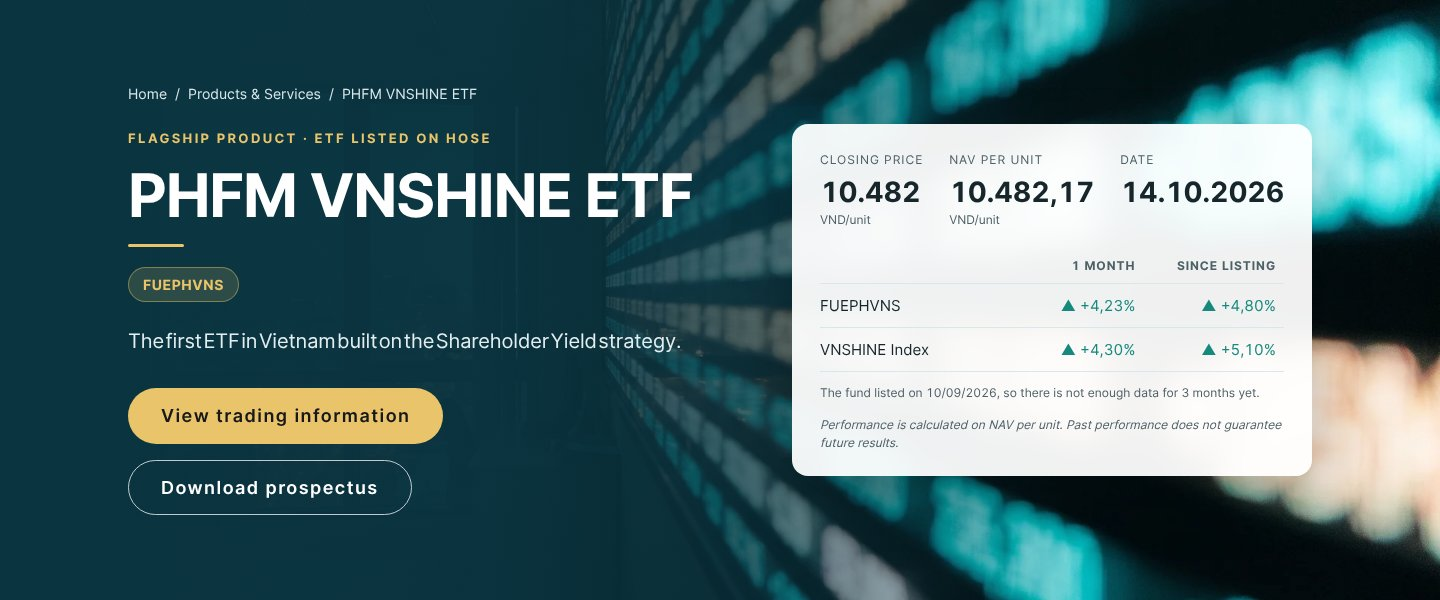
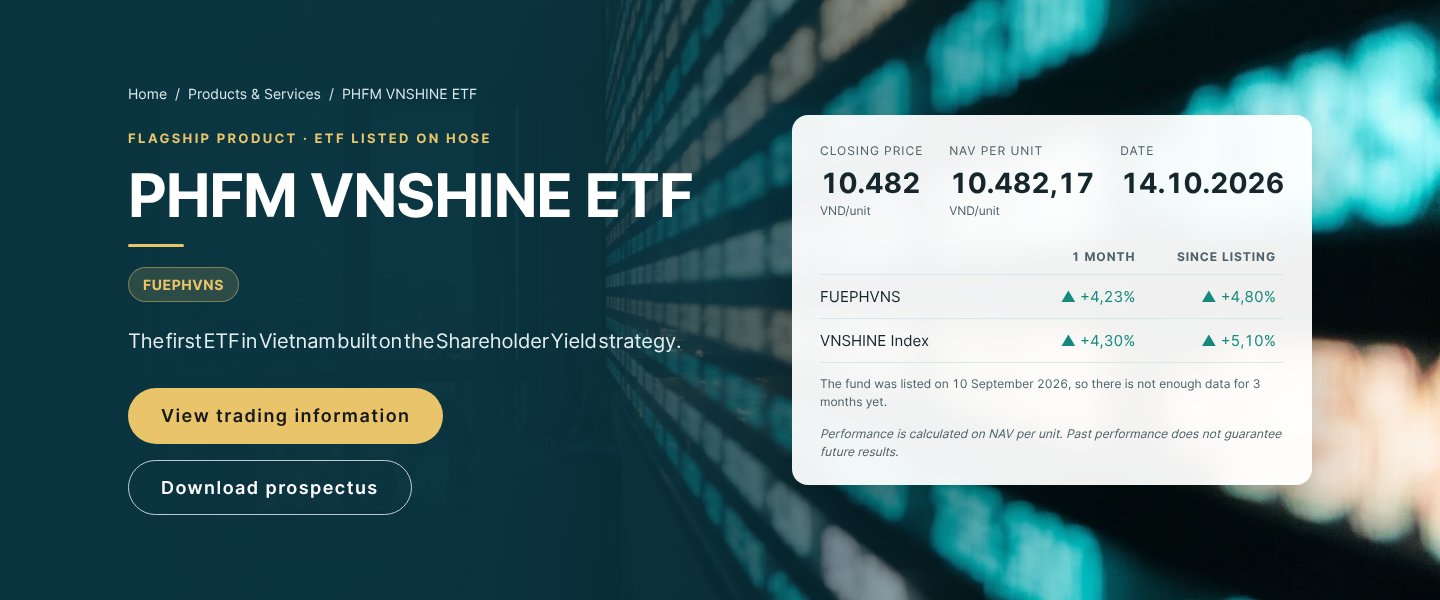
R4-04: sửa review vòng 1, ghi chú cột ẩn ở EN và 中文
- EN: "The fund was listed on 10 September 2026, ..." (ngày viết chữ, tạo từ PHFM_ANCHORS)
- 中文: vẫn ẩn cột trống, không hiện ghi chú (tránh câu trộn tiếng, chờ Rin và cô Helena duyệt)
- Cập nhật ảnh EN, thêm ảnh 中文, nối changelog

Claude-Session: https://claude.ai/code/session_01972Ho4cVfY1nWby66M8dMW

diff --git a/src/patches4.py b/src/patches4.py
@@ -141,10 +141,11 @@ def p_r4_04(s):
           f.heroColsL = f.heroColsL.filter((_, i) => keep.indexOf(i) >= 0);
           f.cuRows = f.cuRows.map(r => ({ ...r, v: r.v.filter((_, i) => keep.indexOf(i) >= 0) }));
           f.heroNCol = String(keep.length); f.pxCols = F.isEtf ? 'repeat(3,auto)' : 'repeat(2,minmax(0,1fr))'; f.pxColsM = F.isEtf ? 'repeat(2,minmax(0,1fr))' : 'minmax(0,1fr)';
-          const st = ((window.PHFM_ANCHORS || {})[p] || {}).start; f.hasHidCol = hid.length > 0 && !!st;
+          const st = ((window.PHFM_ANCHORS || {})[p] || {}).start; f.hasHidCol = hid.length > 0 && !!st && l !== 'zh'; // bản 中文: ẩn cột, chưa có câu ghi chú (chờ Rin và cô Helena duyệt)
           if (f.hasHidCol) { const dmy = st.slice(8, 10) + '/' + st.slice(5, 7) + '/' + st.slice(0, 4), lbl = hid.map(i => F.heroCols[i]).join(', ');
-            f.hidColNote = F.isEtf ? L3('Quỹ niêm yết ngày ' + dmy + ', chưa đủ dữ liệu ' + lbl + '.', 'The fund listed on ' + dmy + ', so there is not enough data for ' + lbl + ' yet.')
-              : L3('Quỹ thành lập ngày ' + dmy + ', chưa đủ dữ liệu ' + lbl + '.', 'The fund was set up on ' + dmy + ', so there is not enough data for ' + lbl + ' yet.'); } }
+            const dEn = (+st.slice(8, 10)) + ' ' + ['January', 'February', 'March', 'April', 'May', 'June', 'July', 'August', 'September', 'October', 'November', 'December'][+st.slice(5, 7) - 1] + ' ' + st.slice(0, 4);
+            f.hidColNote = l === 'vi' ? (F.isEtf ? 'Quỹ niêm yết ngày ' : 'Quỹ thành lập ngày ') + dmy + ', chưa đủ dữ liệu ' + lbl + '.'
+              : 'The fund was ' + (F.isEtf ? 'listed' : 'set up') + ' on ' + dEn + ', so there is not enough data for ' + lbl + ' yet.'; } }
         f.heroCols2 = wide ?""")
     return s
 

diff --git a/specs/changelog.md b/specs/changelog.md
@@ -48,4 +48,4 @@ Cột: Trang | Thay đổi | Lý do. Vòng mới nối thêm ở cuối bảng.
 | PHVSF, VNSHINE, Quỹ thành viên, Danh mục, Tư vấn, Học viện, Tuyển dụng, 2 trang Hướng dẫn | Thay ảnh hero theo từng vị trí bằng bộ stock `r5_*` (H2–H10). Khung cắt: ảnh quỹ 75% 50% (mobile 80%), Hướng dẫn PHVSF 85% (mobile 88%), Hướng dẫn VNSHINE 75% (mobile 80%), ảnh dịch vụ theo chủ thể. Hero Học viện đổi lớp mờ sang teal rộng hơn vì ảnh mới sáng. Alt hai trang Hướng dẫn đổi theo nội dung ảnh (VI/EN/中文). Hero Hướng dẫn (≥ 701px): lớp mờ trắng rộng hơn (đặc đến 55%, hết ở 82%) và tiêu đề tối đa `min(720px, 60vw)` vì ảnh mới tối, chữ tối trên ảnh chỉ 1,3–2,3:1; hero cao thêm 56px. Khung cắt mobile của hai ảnh Hướng dẫn thêm `!important` để thắng luật cũ ≤ 700px | Bớt ảnh AI quá lố, thêm ảnh tài chính theo giờ xanh khớp trang chủ (#14) |
 | Góc nhìn & Tin tức | Thay 10 ảnh bài viết (N1–N10) bằng `r5_nw_*`; ba ảnh tin sự kiện giữ nguyên | Ảnh báo tài chính ban ngày, mỗi bài một ảnh (#14) |
 | Toàn site | Xoá 16 ảnh cũ không còn dùng khỏi `assets/img` (ab_hero, advisor, team, nw_city, pk_I05, pk_I07, pk_I12–I15, pk_I17, pk_I18, r3_adv_hero, r3_vns_hero, r3_nw_msci, r3_nw_rot). Thêm `qa/check-images.js` kiểm từng vị trí hiện đúng khoá ảnh và không trùng khoá | Dọn ảnh thừa sau R4-09 |
-| VNSHINE, PHVSF | Ô giá ở hero: hàng chỉ số (Giá đóng cửa · NAV/CCQ · Ngày) thành lưới `.px-row`, số 28px, nhãn và đơn vị 12px, đơn vị nằm dưới số; không còn `flex-wrap` đẩy Ngày xuống hàng. Desktop VNSHINE 3 cột cách đều, PHVSF 2 cột; mobile VNSHINE Giá + NAV một hàng, Ngày hàng dưới thẳng cột, PHVSF mỗi chỉ số một hàng. Bảng hiệu quả tự ẩn cột mà mọi hàng đều "—" (VNSHINE: 3 tháng) và thêm dòng ghi chú ngày niêm yết (lấy từ `PHFM_ANCHORS[quỹ].start`, chỉ hiện khi có cột bị ẩn). Số liệu không đổi | Bỏ khoảng trống thừa trong ô giá, bỏ cột trống trông như lỗi (#5) |
+| VNSHINE, PHVSF | Ô giá ở hero: hàng chỉ số (Giá đóng cửa · NAV/CCQ · Ngày) thành lưới `.px-row`, số 28px, nhãn và đơn vị 12px, đơn vị nằm dưới số; không còn `flex-wrap` đẩy Ngày xuống hàng. Desktop VNSHINE 3 cột cách đều, PHVSF 2 cột; mobile VNSHINE Giá + NAV một hàng, Ngày hàng dưới thẳng cột, PHVSF mỗi chỉ số một hàng. Bảng hiệu quả tự ẩn cột mà mọi hàng đều "—" (VNSHINE: 3 tháng) và thêm dòng ghi chú ngày niêm yết (lấy từ `PHFM_ANCHORS[quỹ].start`, chỉ hiện khi có cột bị ẩn; EN viết ngày bằng chữ "10 September 2026"; bản 中文 ẩn cột nhưng chưa có ghi chú, chờ duyệt). Số liệu không đổi | Bỏ khoảng trống thừa trong ô giá, bỏ cột trống trông như lỗi (#5) |
